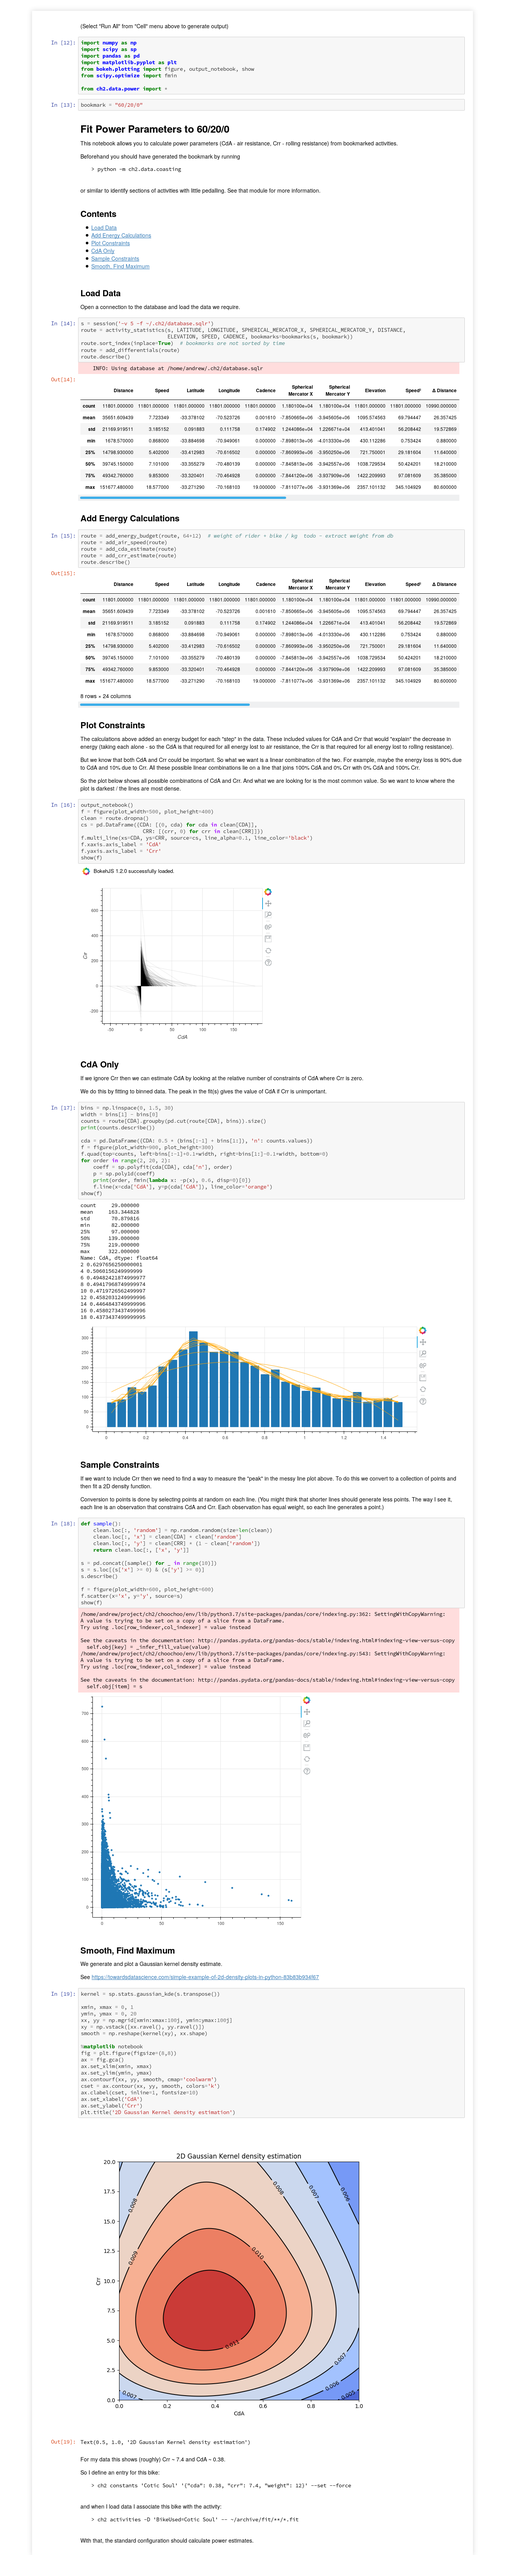
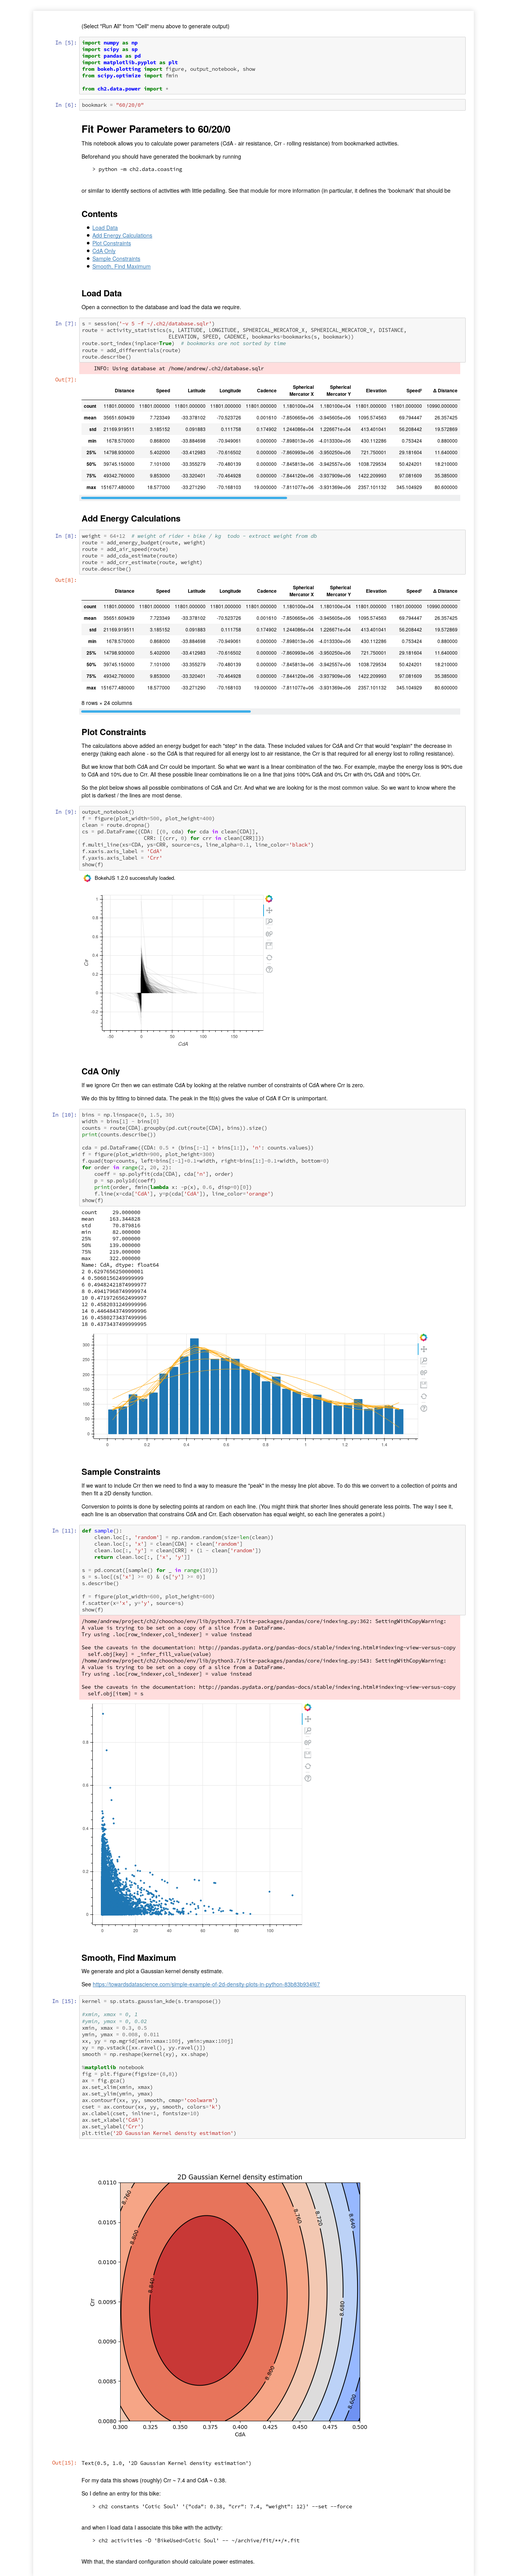
bug fixing power estimates

diff --git a/ch2/uranus/template/fit_power_parameters.py b/ch2/uranus/template/fit_power_parameters.py
@@ -1,4 +1,6 @@
 
+from distutils.util import strtobool
+
 import numpy as np
 import scipy as sp
 import pandas as pd
@@ -7,11 +9,12 @@ from bokeh.plotting import figure, output_notebook, show
 from scipy.optimize import fmin
 
 from ch2.data.power import *
+from ch2.lib import bookend
 from ch2.uranus.decorator import template
 
 
 @template
-def fit_power_parameters(bookmark):
+def fit_power_parameters(bookmark, large):
 
     f'''
     # Fit Power Parameters to {bookmark}
@@ -24,7 +27,10 @@ def fit_power_parameters(bookmark):
         > python -m ch2.data.coasting
 
     or similar to identify sections of activities with little pedalling.
-    See that module for more information (in particular, it defines the 'bookmark' that should be
+    See that module for more information.
+
+    The `large` parameter means that each bookmark is taken in its entirety.
+    The alternative is that they are divided into small sub-samples reflecting the data sample rate.
     '''
 
     '''
@@ -37,19 +43,27 @@ def fit_power_parameters(bookmark):
     Open a connection to the database and load the data we require.
     '''
     s = session('-v 5')
+    large = strtobool(large)
     route = activity_statistics(s, LATITUDE, LONGITUDE, SPHERICAL_MERCATOR_X, SPHERICAL_MERCATOR_Y, DISTANCE,
                                 ELEVATION, SPEED, CADENCE, bookmarks=bookmarks(s, bookmark))
     route.sort_index(inplace=True)  # bookmarks are not sorted by time
-    route = add_differentials(route)
+    if large:
+        route, max_gap = bookend(route), None
+    else:
+        max_gap = 10
+    route = add_differentials(route, max_gap=max_gap)
+    if large:
+        route = route.iloc[1::2]
     route.describe()
 
     '''
     ## Add Energy Calculations
     '''
-    route = add_energy_budget(route, 64+12)  # weight of rider + bike / kg  todo - extract weight from db
+    weight = 64+12  # weight of rider + bike / kg  todo - extract weight from db
+    route = add_energy_budget(route, weight)
     route = add_air_speed(route)
     route = add_cda_estimate(route)
-    route = add_crr_estimate(route)
+    route = add_crr_estimate(route, weight)
     route.describe()
 
     '''
@@ -71,9 +85,9 @@ def fit_power_parameters(bookmark):
     '''
     output_notebook()
     f = figure(plot_width=500, plot_height=400)
-    clean = route.dropna()
+    clean = route.loc[route[DELTA_ENERGY] < 0].dropna()
     cs = pd.DataFrame({CDA: [(0, cda) for cda in clean[CDA]],
-                        CRR: [(crr, 0) for crr in clean[CRR]]})
+                       CRR: [(crr, 0) for crr in clean[CRR]]})
     f.multi_line(xs=CDA, ys=CRR, source=cs, line_alpha=0.1, line_color='black')
     f.xaxis.axis_label = 'CdA'
     f.yaxis.axis_label = 'Crr'
@@ -90,7 +104,7 @@ def fit_power_parameters(bookmark):
     '''
     bins = np.linspace(0, 1.5, 30)
     width = bins[1] - bins[0]
-    counts = route[CDA].groupby(pd.cut(route[CDA], bins)).size()
+    counts = clean[CDA].groupby(pd.cut(clean[CDA], bins)).size()
     print(counts.describe())
 
     cda = pd.DataFrame({CDA: 0.5 * (bins[:-1] + bins[1:]), 'n': counts.values})
@@ -113,6 +127,9 @@ def fit_power_parameters(bookmark):
     (You might think that shorter lines should generate less points.
     The way I see it, each line is an observation that constrains CdA and Crr.
     Each observation has equal weight, so each line generates a point.)
+    
+    Random points avoids any systematic patterns from uniform sampling 
+    and allows re-runs to give some idea of noise. 
     '''
 
     def sample():
@@ -121,9 +138,8 @@ def fit_power_parameters(bookmark):
         clean.loc[:, 'y'] = clean[CRR] * (1 - clean['random'])
         return clean.loc[:, ['x', 'y']]
 
-    s = pd.concat([sample() for _ in range(10)])
-    s = s.loc[(s['x'] >= 0) & (s['y'] >= 0)]
-    s.describe()
+    s = pd.concat([sample() for _ in range(100 if large else 10)])
+    print(s.describe())
 
     f = figure(plot_width=600, plot_height=600)
     f.scatter(x='x', y='y', source=s)
@@ -135,12 +151,19 @@ def fit_power_parameters(bookmark):
     We generate and plot a Gaussian kernel density estimate.
     
     See https://towardsdatascience.com/simple-example-of-2d-density-plots-in-python-83b83b934f67
+    
+    You may want to play around with bandwidth by supplying a second argument to gaussian_kde. 
+    See https://docs.scipy.org/doc/scipy/reference/generated/scipy.stats.gaussian_kde.html
     '''
 
     kernel = sp.stats.gaussian_kde(s.transpose())
 
+    #xmin, xmax = 0, 50
+    #ymin, ymax = 0, 0.4
     xmin, xmax = 0, 1
-    ymin, ymax = 0, 20
+    ymin, ymax = 0, 0.02
+    #xmin, xmax = 0.3, 0.6
+    #ymin, ymax = 0.003, 0.007
     xx, yy = np.mgrid[xmin:xmax:100j, ymin:ymax:100j]
     xy = np.vstack([xx.ravel(), yy.ravel()])
     smooth = np.reshape(kernel(xy), xx.shape)
@@ -158,11 +181,19 @@ def fit_power_parameters(bookmark):
     plt.title('2D Gaussian Kernel density estimation')
 
     '''
-    For my data this shows (roughly) Crr ~ 7.4 and CdA ~ 0.38.
+    For my data this shows (roughly):
     
-    So I define an entry for this bike:
+    * large=True: Crr ~ 0.005-0.006 and CdA ~ 0.40-0.45
     
-        > ch2 constants 'Cotic Soul' '{"cda": 0.38, "crr": 7.4, "weight": 12}' --set --force
+    * large=False: Crr ~ 0.01 and CdA ~ 0.35-0.40
+    
+    which supports the idea that Crr isn't well-constrained by the data.
+    
+    I chose large=True values since I suspect the larger intervals make the elevation values more accurate, 
+    
+    Then I can define an entry for this bike:
+    
+        > ch2 constants 'Cotic Soul' '{"cda": 0.42, "crr": 0.0055, "weight": 12}' --set --force
         
     and when I load data I associate this bike with the activity:
     

diff --git a/ch2/data/power.py b/ch2/data/power.py
@@ -18,16 +18,17 @@ log = getLogger(__name__)
 RAD_TO_DEG = 180 / pi
 
 
-def add_differentials(df):
-    return _add_differentials(df, SPEED, DISTANCE, ELEVATION, SPEED, SPEED_2, LATITUDE, LONGITUDE)
+def add_differentials(df, max_gap=None):
+    return _add_differentials(df, SPEED, DISTANCE, ELEVATION, SPEED, SPEED_2, LATITUDE, LONGITUDE,
+                              max_gap=max_gap)
 
 
-def add_air_speed(df, wind_speed=0, wind_heading=0):
+def add_air_speed(df, wind_speed=0, wind_heading=0, max_gap=None):
     df[AIR_SPEED] = df[SPEED] + wind_speed * _np.cos((df[HEADING] - wind_heading) / RAD_TO_DEG)
-    return _add_differentials(df, AIR_SPEED, AIR_SPEED)
+    return _add_differentials(df, AIR_SPEED, AIR_SPEED, max_gap=max_gap)
 
 
-def _add_differentials(df, speed, *names, max_gap_s=10):
+def _add_differentials(df, speed, *names, max_gap=None):
 
     # rather than use timespans (old approach) it's more reliable to discard any intervals
     # over a certain time gap.
@@ -41,15 +42,16 @@ def _add_differentials(df, speed, *names, max_gap_s=10):
 
     for name in names:
         df[_d(name)] = df[name].diff()
-        df.loc[df[tmp] > max_gap_s, [_d(name)]] = _np.nan
+        df.loc[df[tmp] > max_gap, [_d(name)]] = _np.nan
 
     if LATITUDE in names and LONGITUDE in names and HEADING not in df.columns:
         df[HEADING] = _np.arctan2(df[_d(LONGITUDE)], df[_d(LATITUDE)]) * RAD_TO_DEG
-        df.loc[df[tmp] > max_gap_s, [HEADING]] = _np.nan
+        df.loc[df[tmp] > max_gap, [HEADING]] = _np.nan
 
     avg_speed_2 = [(a**2 + a*b + b**2)/3 for a, b in zip(df[speed], df[speed][1:])]
     df[_avg(speed_2)] = [_np.nan] + avg_speed_2
-    df.loc[df[tmp] > max_gap_s, [_avg(speed_2)]] = _np.nan
+    if max_gap:
+        df.loc[df[tmp] > max_gap, [_avg(speed_2)]] = _np.nan
 
     df.drop(columns=[tmp], inplace=True)
     return df
@@ -102,15 +104,15 @@ def add_cda_estimate(df, p=1.225):
     return df
 
 
-def add_crr_estimate(df):
+def add_crr_estimate(df, m, g=9.8):
     # assume that all energy lost is due to rolling resistance
-    df[CRR] = -df[DELTA_ENERGY] / df[DELTA_DISTANCE]
+    df[CRR] = -df[DELTA_ENERGY] / (df[DELTA_DISTANCE] * m * g)
     return df
 
 
-def add_loss_estimate(df, cda=0.45, crr=0, p=1.225):
+def add_loss_estimate(df, m, cda=0.45, crr=0, p=1.225, g=9.8):
     # this is the energy spent on air and rolling resistance
-    df[LOSS] = (cda * p * df[AVG_AIR_SPEED_2] * 0.5 + crr) * df[DELTA_DISTANCE]
+    df[LOSS] = (cda * p * df[AVG_AIR_SPEED_2] * 0.5 + crr * m * g) * df[DELTA_DISTANCE]
     return df
 
 
@@ -159,14 +161,14 @@ class PowerException(Exception): pass
 # the 13.5 delay is from fitting my rides til 2019
 # it seems oddly low to me - i wonder if i have an error confusing bins and time
 PowerModel = namedtuple('PowerModel', 'cda, crr, slope, window, delay, m,  wind_speed, wind_heading',
-                             defaults=[0.5, 0,   200,   60*60,  13.5,  70, 0,          0])
+                        defaults=[0.5, 0,   200,   60*60,  13.5,  70, 0,          0])
 
 
 def evaluate(df, model, quiet=True):
     if not quiet: log.debug(f'Evaluating {model}')
     df = add_energy_budget(df, model.m)
     df = add_air_speed(df, model.wind_speed, model.wind_heading)
-    df = add_loss_estimate(df, model.cda, model.crr)
+    df = add_loss_estimate(df, model.m, cda=model.cda, crr=model.crr)
     df = add_power_estimate(df)
     return df
 
@@ -218,6 +220,6 @@ if __name__ == '__main__':
     route = activity_statistics(s, LATITUDE, LONGITUDE, SPHERICAL_MERCATOR_X, SPHERICAL_MERCATOR_Y, DISTANCE,
                                 ELEVATION, SPEED, CADENCE, bookmarks=bookmarks(s, '60/20/0'), with_timespan=True)
     route.sort_index(inplace=True)
-    route = add_differentials(route)
+    route = add_differentials(route)  # todo max_gap
     print(route.describe())
     print(route.loc[route[DELTA_DISTANCE] > 1000])

diff --git a/ch2/data/frame.py b/ch2/data/frame.py
@@ -19,9 +19,8 @@ from ..squeal.database import connect, ActivityTimespan, ActivityGroup, Activity
     Composite, CompositeComponent, ActivityNearby
 from ..stoats.display.nearby import nearby_any_time
 from ..stoats.names import DELTA_TIME, HEART_RATE, _src, FITNESS_D_ANY, FATIGUE_D_ANY, like, _log, HEART_RATE_BPM, \
-    MED_HEART_RATE_BPM, GRADE, GRADE_PC
-from ..stoats.names import DISTANCE_KM, SPEED_KMH, MED_SPEED_KMH, MED_HR_IMPULSE_10, MED_CADENCE, \
-    ELEVATION_M, CLIMB_MS, ACTIVE_TIME_H, ACTIVE_DISTANCE_KM, MED_POWER_ESTIMATE_W, \
+    MED_HEART_RATE_BPM, GRADE, GRADE_PC, BOOKMARK, DISTANCE_KM, SPEED_KMH, MED_SPEED_KMH, MED_HR_IMPULSE_10, \
+    MED_CADENCE, ELEVATION_M, CLIMB_MS, ACTIVE_TIME_H, ACTIVE_DISTANCE_KM, MED_POWER_ESTIMATE_W, \
     TIMESPAN_ID, LATITUDE, LONGITUDE, SPHERICAL_MERCATOR_X, SPHERICAL_MERCATOR_Y, DISTANCE, MED_WINDOW, \
     ELEVATION, SPEED, HR_ZONE, HR_IMPULSE_10, ALTITUDE, CADENCE, TIME, LOCAL_TIME, REST_HR, \
     DAILY_STEPS, ACTIVE_TIME, ACTIVE_DISTANCE, POWER_ESTIMATE, INDEX, GROUP
@@ -165,6 +164,11 @@ def activity_journal(s, activity_journal=None, local_time=None, time=None, activ
 _activity_journal = activity_journal
 
 
+def _add_bookmark(bookmark, df):
+    df[BOOKMARK] = bookmark.id
+    return df
+
+
 def activity_statistics(s, *statistics, owner=None, constraint=None, start=None, finish=None,
                         local_time=None, time=None, bookmarks=None, activity_journal=None,
                         activity_group_name=None, with_timespan=False, check=True):
@@ -172,10 +176,11 @@ def activity_statistics(s, *statistics, owner=None, constraint=None, start=None,
     if bookmarks:
         if start or finish or local_time or time or activity_journal or activity_group_name:
             raise Exception('Cannot use bookmarks with additional activity constraints')
-        return pd.concat(_activity_statistics(s, *statistics, owner=owner, constraint=constraint,
-                                              start=bookmark.start, finish=bookmark.finish,
-                                              activity_journal=bookmark.activity_journal,
-                                              with_timespan=with_timespan, check=check)
+        return pd.concat(_add_bookmark(bookmark,
+                                       _activity_statistics(s, *statistics, owner=owner, constraint=constraint,
+                                                            start=bookmark.start, finish=bookmark.finish,
+                                                            activity_journal=bookmark.activity_journal,
+                                                            with_timespan=with_timespan, check=check))
                          for bookmark in bookmarks)
     else:
         return _activity_statistics(s, *statistics, owner=owner, constraint=constraint, start=start, finish=finish,

diff --git a/ch2/stoats/calculate/power.py b/ch2/stoats/calculate/power.py
@@ -4,13 +4,14 @@ from json import loads
 from logging import getLogger
 from re import split
 
-import pandas as pd
 import numpy as np
+import pandas as pd
 
 from . import DataFrameCalculatorMixin, ActivityJournalCalculatorMixin, MultiProcCalculator
 from ..load import StatisticJournalLoader
 from ..names import *
 from ...data import activity_statistics, present, linear_resample_time
+from ...data.frame import median_dt
 from ...data.lib import interpolate_to_index
 from ...data.power import add_differentials, add_energy_budget, add_loss_estimate, \
     add_power_estimate, PowerException, evaluate, fit_power, PowerModel, add_air_speed, add_modeled_hr
@@ -52,7 +53,7 @@ class BasicPowerCalculator(PowerCalculator):
             df = activity_statistics(s, DISTANCE, ELEVATION, SPEED, CADENCE, LATITUDE, LONGITUDE, HEART_RATE,
                                      activity_journal=ajournal, with_timespan=True)
             ldf = linear_resample_time(df)
-            ldf = add_differentials(ldf)
+            ldf = add_differentials(ldf, max_gap=1.1 * median_dt(df))
             return df, ldf
         except PowerException as e:
             log.warning(e)
@@ -64,9 +65,10 @@ class BasicPowerCalculator(PowerCalculator):
 
     def _calculate_stats(self, s, ajournal, dfs):
         df, ldf = dfs
-        ldf = add_energy_budget(ldf, self.power.bike['weight'] + self.power.rider_weight)
+        weight = self.power.bike['weight'] + self.power.rider_weight
+        ldf = add_energy_budget(ldf, weight)
         ldf = add_air_speed(ldf, 0, 0)
-        ldf = add_loss_estimate(ldf, self.power.bike['cda'], self.power.bike['crr'])
+        ldf = add_loss_estimate(ldf, weight, cda=self.power.bike['cda'], crr=self.power.bike['crr'])
         ldf = add_power_estimate(ldf)
         return df, ldf
 

diff --git a/ch2/lib/data.py b/ch2/lib/data.py
@@ -8,6 +8,8 @@ from random import choice
 from re import sub
 from string import ascii_letters
 
+from ..stoats.names import BOOKMARK
+
 
 class WarnDict(dict):
 
@@ -205,3 +207,9 @@ def left_interpolate(left, right, **kargs):
     left[tmp] = True
     both = left.join(right, how='outer').interpolate(**kargs)
     return both.loc[both[tmp] == True].drop(columns=[tmp])
+
+
+def bookend(df, column=BOOKMARK):
+    # https://stackoverflow.com/questions/53927414/get-only-the-first-and-last-rows-of-each-group-with-pandas
+    g = df.groupby(column)
+    return pd.concat([g.head(1), g.tail(1)]).drop_duplicates().sort_index()

diff --git a/ch2/data/coasting.py b/ch2/data/coasting.py
@@ -112,10 +112,11 @@ select a.id, s.time, f.time
 
 if __name__ == '__main__':
     '''
-    Bookmark sections of activities that exceed 60s of little or no pedalling (maximumu cadence 20)
+    Bookmark sections of activities that exceed 60s of little or no pedalling (maximum cadence 20)
     and with any speed (max 0).
     
     These are then used in the fit_power_parameters template to estimate CdA and Crr. 
     '''
     ns, db = connect(['-v 4'])
     CoastingBookmark(log, db).run(60, 20, 0, constraint='60/20/0')
+#     CoastingBookmark(log, db).run(15, 5, 10, constraint='15/5/10')

diff --git a/ch2/lib/__init__.py b/ch2/lib/__init__.py
@@ -1,5 +1,5 @@
 
-from .data import sorted_numeric_labels, left_interpolate
+from .data import sorted_numeric_labels, left_interpolate, bookend
 from .date import local_date_to_time, to_date, time_to_local_time, format_date, format_seconds, format_time, \
     local_time_to_time, time_to_local_date, to_duration, to_time, datetime_to_epoch
 from .utils import short_str, sign, format_metres, format_percent, format_watts

diff --git a/ch2/stoats/names.py b/ch2/stoats/names.py
@@ -10,6 +10,7 @@ ACTIVITY = 'Activity'
 AIR_SPEED = 'Air Speed'
 ALTITUDE = 'Altitude'
 ASPECT_RATIO = 'Aspect Ratio'
+BOOKMARK = 'Bookmark'
 CADENCE = 'Cadence'
 CALORIE_ESTIMATE = 'Calorie Estimate'
 CDA = 'CdA'
